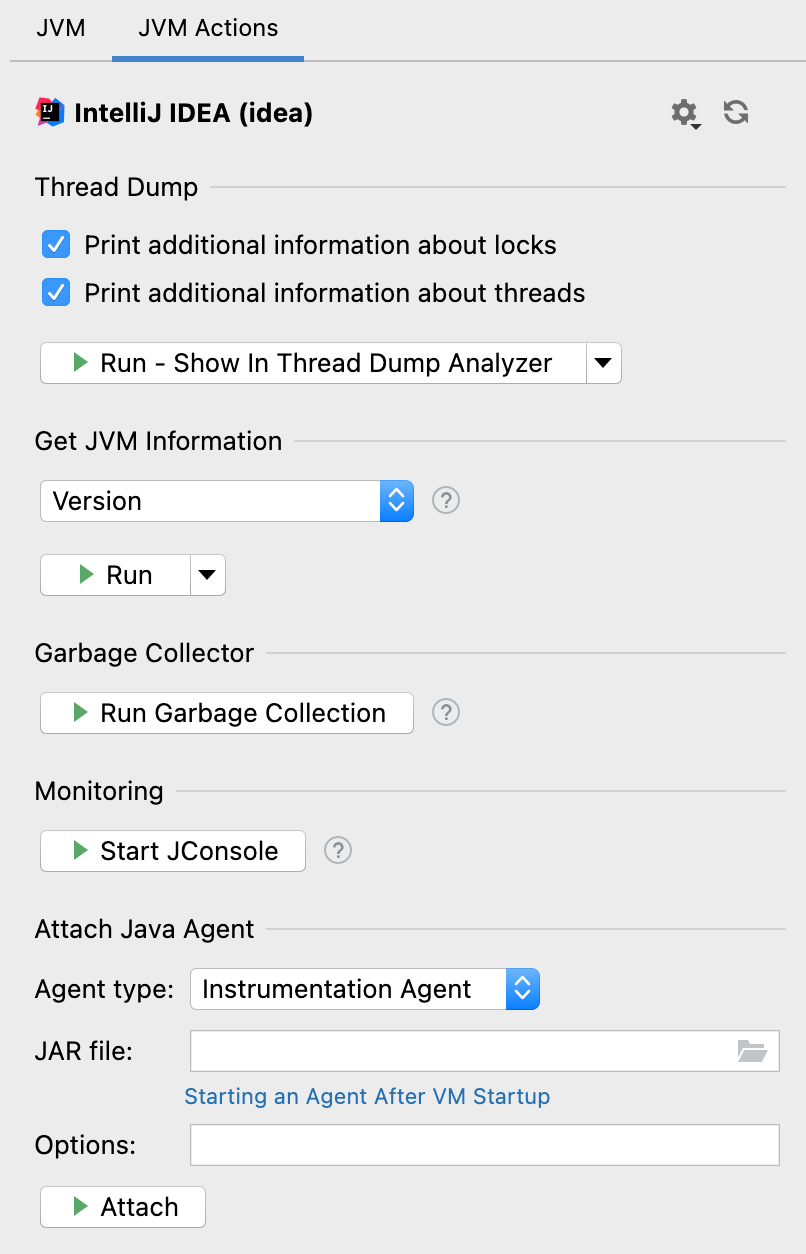
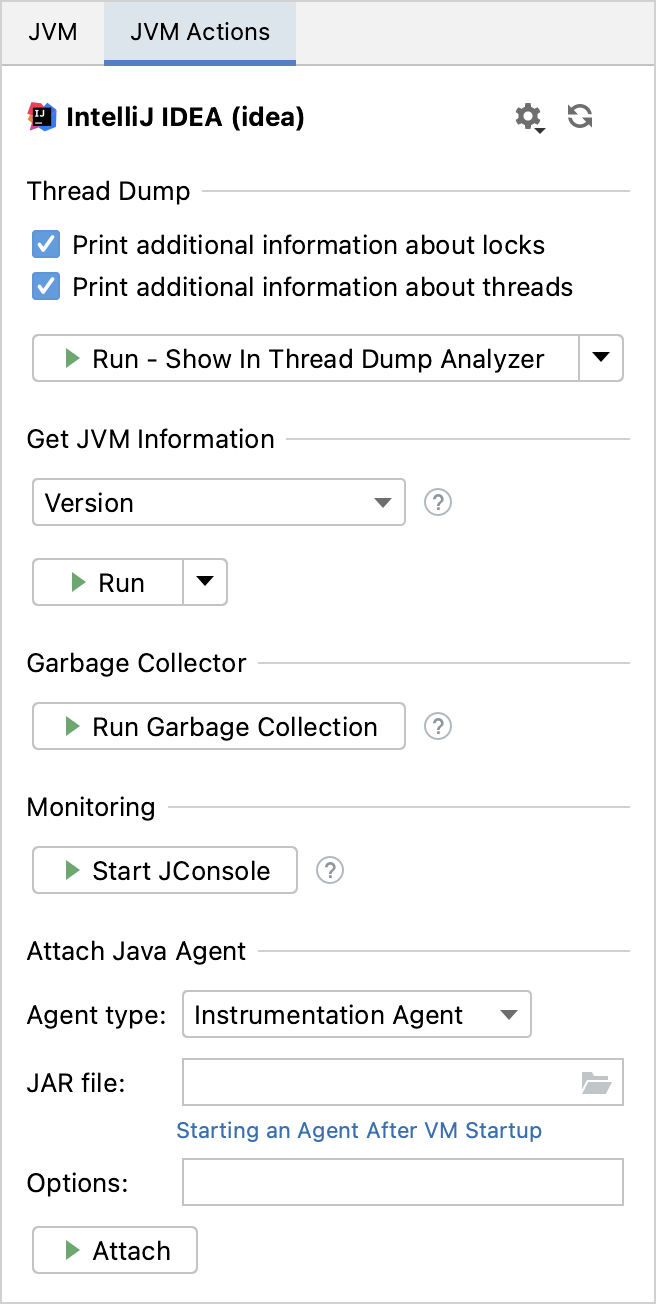
Update screenshots

diff --git a/README.md b/README.md
@@ -16,7 +16,7 @@ The tool window is available via *View | Tool Windows | JVMs* and will be shown 
 
 The main part of the tool window is a tree table that lists all running JVM processes and their child processes.
 
-<img src="screenshots/jvms-table.png" alt="Running JVMs Overview" width="989px"/>
+<img src="screenshots/jvms-table.png" alt="Running JVMs Overview" width="1052px"/>
 
 ### Process Details
 
@@ -24,13 +24,13 @@ For each JVM process the process details contains information about the main cla
 
 Besides that, the process details provides the memory usage, command line, environment variables, uptime, and a lot more.
 
-<img src="screenshots/jvm-process-details.png" alt="JVM Process Details" width="369px"/>
+<img src="screenshots/jvm-process-details.png" alt="JVM Process Details" width="328px"/>
 
 ### JVM Actions
 
 The plugin provides an easy-to-use UI to access detailed information about any running JVM process, like getting a thread dump, version, classloader hierarchy, and the heap space. In addition, the tool window provides a one-click solution to attach a Java agent, trigger the garbage collection and start the OpenJDK JVM monitoring tool.
 
-<img src="screenshots/jvm-actions.png" alt="JVM Actions" width="403px"/>
+<img src="screenshots/jvm-actions.png" alt="JVM Actions" width="328px"/>
 
 ## Development
 
